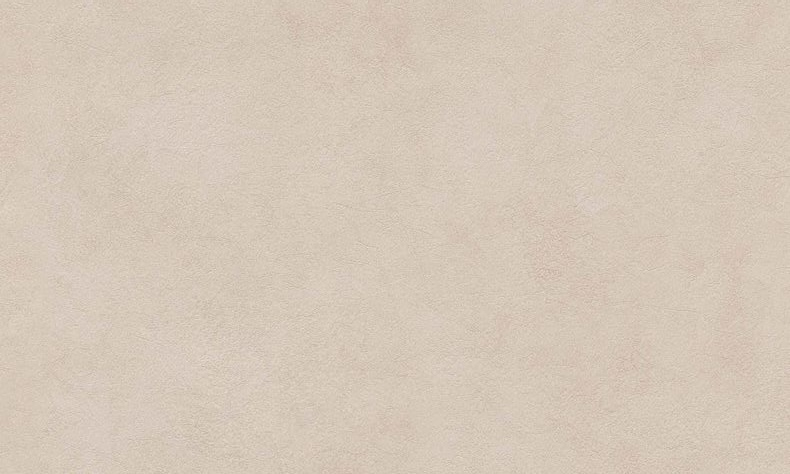
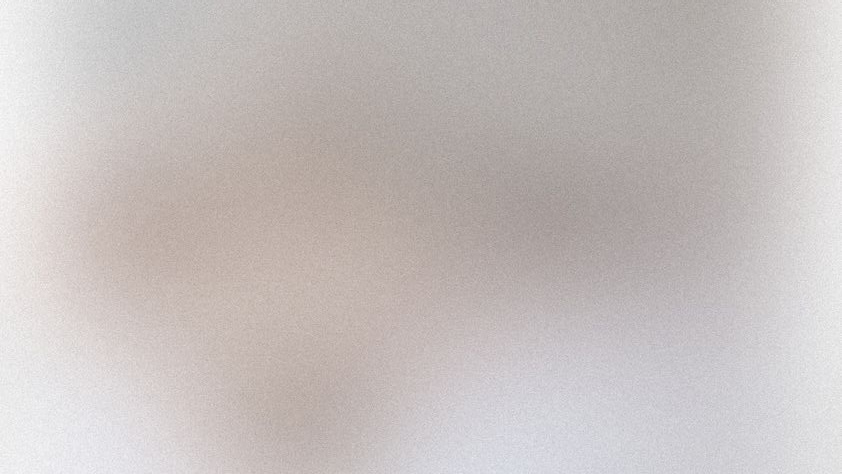
.

diff --git a/my-pages/2/css/styles.css b/my-pages/2/css/styles.css
@@ -9,13 +9,15 @@ html {
     /*"Playfair Display", serif*/
     /*'Gill Sans', 'Gill Sans MT', Calibri, 'Trebuchet MS', sans-serif;*/
     /*"Oswald", sans-serif*/
-    font-family: 'Poppins' sans-serif;
+    font-family: "Comfortaa", sans-serif;
+    font-style: normal;
+    font-weight: 200;
     scroll-behavior: smooth;
 }
 
 body {
     background-color: rgb(0, 0, 0);
-    background-image: url("../img/background1.jpeg");
+    background-image: url("../img/back44.jpeg");
     background-attachment: fixed;
     background-position: center;
     background-repeat: no-repeat;
@@ -57,6 +59,7 @@ img {
 }
 
 header {
+    height: 16%;
     background-color: black;
     grid-column-start: 1;
     grid-column-end: 13;
@@ -117,6 +120,7 @@ header {
     color: #ddd;
     padding: 3%;
     right: 100%;
+    justify-content:first baseline;
 }
 
 #logo h1 {
@@ -130,8 +134,7 @@ header {
 }
 
 #logo img {
-    width: 15%;
-    margin-left: 5%;
+    width: 17%;
     margin-right: 2%;
 }
 
@@ -139,7 +142,7 @@ header {
     grid-column-start: 1;
     grid-column-end: 13;
     grid-row: span 1;
-    background-color: rgb(163, 163, 163);
+    background-color: rgb(172, 171, 170);
     height: 25%;
     width: 100%;
     padding: 2%;
@@ -151,6 +154,8 @@ header {
     z-index: 1003;
     transition: 0.3s;
     text-transform: uppercase;
+    border-radius: 8px;
+    border: 1px solid black;
 }
 
 .active {
@@ -282,7 +287,7 @@ header {
 #content3 {
     grid-column-start: 7;
     grid-column-end: 13;
-    margin-top: 20%;
+    margin-top: 15%;
 }
 
 #content3 img {
@@ -291,7 +296,7 @@ header {
     border-radius: 5px;
     box-shadow: 0 1px 5px #343333;
     position: sticky;
-    top: 20%;
+    top: 22%;
 }
 
 #content4 {
@@ -485,7 +490,7 @@ footer {
     margin-bottom: 2.5%;
     grid-column-end: 12;
     grid-column-start: 2;
-    background-color: #2e2f30
+    background-color: #6f6f6f;
         /*#3f4c55*/
     ;
     border-radius: 8px;
@@ -507,7 +512,7 @@ footer {
 }
 
 .models-content:hover {
-    background-color: #6f6f6f;
+    background-color: #2e2f30;
     box-shadow: 0 3px 5px #ffffff;
 }
 
@@ -546,7 +551,7 @@ footer {
 
 body#models-body {
     background-color: rgb(0, 0, 0);
-    background-image: url("../img/shop-back.jpeg");
+    background-image: url("../img/back44.jpeg");
     background-attachment: fixed;
     background-position: center;
     background-repeat: no-repeat;

diff --git a/my-pages/2/models-subpages/918.html b/my-pages/2/models-subpages/918.html
@@ -111,7 +111,7 @@
         
         <nav id="content7">
             <nav id="price">
-                <h2>Buy a 918 Spyder!</h2>
+                <h2>Buy the 918 Spyder!</h2>
                 <p>Due to high demand and limited production we have a limited stock of 2 of this extraordinary vehicle,
                     starting from a price tag of 1.5 million Euros that can go higher depending on the specifications.</p>
                 <h3>Interested?</h3>

diff --git a/my-pages/2/index.html b/my-pages/2/index.html
@@ -21,14 +21,12 @@
 
     <header>
 
-        
 
         <div id="logo">
             <a href="index.html">
                 <h1><img src="img/logo.png" alt="Logo">Dynamic Autosport</h1>
             </a>
         </div>
-
 
         <a href="#stay" class="hambi toggle">
             menu

diff --git a/my-pages/2/subpages/models.html b/my-pages/2/subpages/models.html
@@ -18,6 +18,7 @@
     <a onclick="topfunction()" href="#" id="topBtn">↑</a>
 
     <header>
+        
 
         <div id="logo">
             <a href="../index.html">
